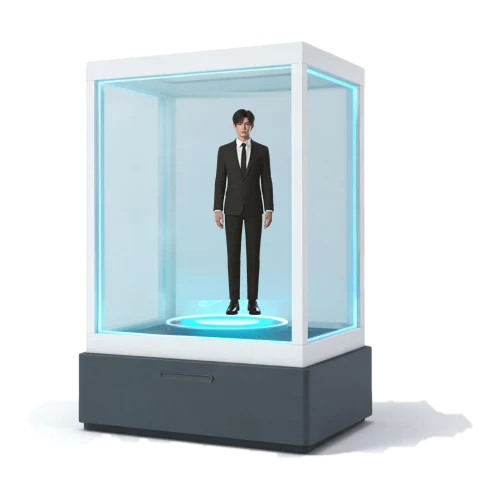
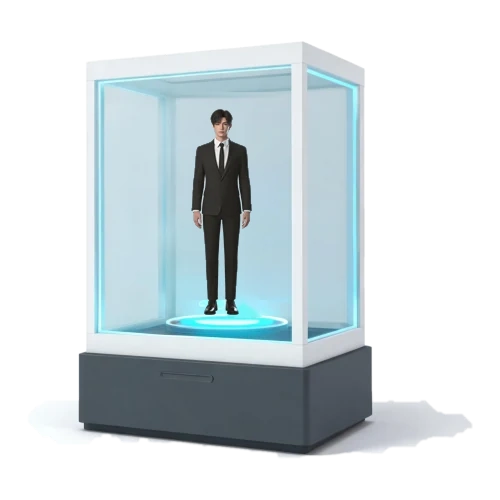
feat: 串联合作实景叙事并校正智柜数字人位置
保留悬浮目录并连续展开五条合作线，同时让西装数字人居于柜体视觉中央。

Changed region(s): [[0.36, 0.21, 0.57, 0.66]]

diff --git a/src/components/sections/CoopShowcase.jsx b/src/components/sections/CoopShowcase.jsx
@@ -2,18 +2,17 @@ import { useCallback, useEffect, useLayoutEffect, useRef, useState } from 'react
 import { createPortal } from 'react-dom'
 import { Users, BookOpenCheck, Microscope, GraduationCap, Award } from 'lucide-react'
 import { coopCategories } from '../../data/cooperation'
+import { scrollToId } from '../../hooks/useLenis'
 
 const ICONS = { conference: Users, textbook: BookOpenCheck, project: Microscope, training: GraduationCap, competition: Award }
 
-/* 合作实景 · 五个板块共用一套"暗场画廊"语言：
-   同一块深色台面、同一档发丝线与留白、同一套编号 + 字幕条、同一段 0.5s 缓动；
-   但每个板块换一种构图，避免五个模块长得一样 ——
-     01 学术会议：35mm 双卷胶片（收卷 / 放卷，片边齿孔与印字都在胶片本体上）
-     02 出版教材：书封一字排开的陈列台，脚下有倒影，没有假书架
-     03 产学研合作：疏密有致的拼贴墙，大图占位、小图补缝
-     04 师资培训：横向手风琴名册，选中一张展开成主画幅（原来的课堂复原推翻重做）
-     05 以赛促学：数据海报 + 获奖现场幻灯，先用数字说话
-   动效统一：画面切换走 coop-swap，悬停只做轻微位移/提亮，不做夸张缩放。 */
+/* 合作实景 · 左侧悬浮目录 + 右侧五章连续叙事。
+   目录只负责定位与滚动高亮，不再切换内容；每一章独立组织标题、文案、交付点与舞台：
+     01 学术会议：横向时间胶片，会场纪事沿年份流动
+     02 出版教材：左侧出版叙事，右侧可抽取的书封展台
+     03 产学研合作：拼贴现场与项目笔记左右对读
+     04 师资培训：深色成长路径，手风琴展开每次培训现场
+     05 以赛促学：数据海报与赛场幻灯收束到「学 — 练 — 赛 — 用」 */
 
 const CAPTION_BAR =
   'absolute inset-x-0 bottom-0 flex items-center gap-2.5 border-t border-white/10 bg-black/45 px-3 py-2 backdrop-blur-[6px]'
@@ -539,8 +538,8 @@ function TextbookStage({ items }) {
         {n} titles · co-authored
       </div>
 
-      {/* 飞行层：挂到 body 上。舞台外层有 coop-swap 动画（transform 会留下包含块），
-          留在原地会被当成该包含块内的 fixed，坐标与裁切都会错位 */}
+      {/* 飞行层挂到 body：外层入场动画与展台裁切都可能改变 fixed 的坐标包含块，
+          portal 可保证飞行副本始终使用真实视口坐标。 */}
       {flight &&
         typeof document !== 'undefined' &&
         createPortal(
@@ -567,7 +566,7 @@ function ProjectStage({ items }) {
 
   return (
     <div className="relative flex h-full min-h-[440px] flex-col overflow-hidden md:min-h-0">
-      <div className="grid min-h-0 flex-1 grid-cols-6 grid-rows-2 gap-1.5 p-3 pb-12 md:gap-2 md:p-4 md:pb-12">
+      <div className="grid min-h-0 flex-1 auto-rows-[92px] grid-cols-2 gap-1.5 p-3 pb-12 sm:auto-rows-[112px] md:auto-rows-fr md:grid-cols-6 md:grid-rows-2 md:gap-2 md:p-4 md:pb-12">
         {items.map((it, i) => {
           const big = i === 0
           const on = i === cur
@@ -858,29 +857,69 @@ function CompetitionStage({ items }) {
   )
 }
 
-const VIEWS = {
-  conference: FilmReel,
-  textbook: TextbookStage,
-  project: ProjectStage,
-  training: TrainingStage,
-  competition: CompetitionStage,
+/* 章节标题只统一编号、图标与字阶；标题、正文、交付点的组合方式由每章自己决定。 */
+function ChapterHeading({ cat, dark = false }) {
+  const Icon = ICONS[cat.id]
+  return (
+    <div>
+      <div className="flex flex-wrap items-center gap-x-3 gap-y-2">
+        <span className="font-mono text-caption tabular-nums tracking-[0.16em] text-brand">{cat.n}</span>
+        <span aria-hidden className={`h-px w-5 ${dark ? 'bg-white/25' : 'bg-ink-900/20'}`} />
+        <Icon className={`h-4 w-4 ${dark ? 'text-brand-300' : 'text-brand'}`} strokeWidth={1.7} />
+        <p className={`font-mono text-micro uppercase tracking-label ${dark ? 'text-white/40' : 'text-ink-400'}`}>{cat.en}</p>
+      </div>
+      <h3 id={`coop-title-${cat.id}`} className={`mt-3 text-[26px] font-bold tracking-tight md:text-[30px] ${dark ? 'text-white' : 'text-ink-900'}`}>
+        {cat.zh}
+      </h3>
+    </div>
+  )
 }
 
-/* 左侧竖直悬浮导航：sticky 跟随滚动，高亮当前板块；窄屏退化为横排胶囊。 */
+function StoryPoints({ points, dark = false, className = '' }) {
+  return (
+    <ol className={`grid gap-4 ${className}`}>
+      {points.map((point, i) => (
+        <li key={point} className={`flex items-start gap-3 border-t pt-3 ${dark ? 'border-white/12' : 'border-ink-900/10'}`}>
+          <span className={`mt-0.5 shrink-0 font-mono text-[10px] tabular-nums tracking-[0.14em] ${dark ? 'text-brand-300/80' : 'text-brand'}`}>
+            {pad(i)}
+          </span>
+          <p className={`min-w-0 text-ui leading-relaxed ${dark ? 'text-white/60' : 'text-ink-700'}`}>{point}</p>
+        </li>
+      ))}
+    </ol>
+  )
+}
+
+function StageFrame({ children, dark = false, className = '' }) {
+  return (
+    <div
+      className={`overflow-hidden rounded-2xl border bg-night-900 ${
+        dark ? 'border-white/10 shadow-[0_24px_60px_-36px_rgba(0,0,0,0.9)]' : 'border-ink-900/10 shadow-card'
+      } ${className}`}
+    >
+      {children}
+    </div>
+  )
+}
+
+/* 左侧悬浮目录保留原来的视觉，只把行为从切换面板改为滚动定位。 */
 function SideNav({ active, onSelect }) {
   return (
-    <nav className="sticky top-24 hidden self-start lg:block">
+    <nav aria-label="合作实景章节" className="sticky top-24 hidden self-start lg:block">
       <p className="mb-3 px-3 font-mono text-micro uppercase tracking-label text-ink-400">合作板块</p>
       <div className="flex flex-col gap-1">
         {coopCategories.map((c) => {
           const Icon = ICONS[c.id]
           const on = c.id === active
           return (
-            <button
+            <a
               key={c.id}
-              type="button"
-              onClick={() => onSelect(c.id)}
-              aria-current={on ? 'true' : undefined}
+              href={`#coop-${c.id}`}
+              onClick={(event) => {
+                event.preventDefault()
+                onSelect(c.id)
+              }}
+              aria-current={on ? 'location' : undefined}
               className={`group relative flex items-center gap-3 rounded-xl px-3.5 py-2.5 text-left text-ui transition-colors ${
                 on ? 'bg-white text-ink-900 shadow-card' : 'text-ink-500 hover:bg-white/70 hover:text-ink-900'
               }`}
@@ -890,7 +929,7 @@ function SideNav({ active, onSelect }) {
               <Icon className={`h-4 w-4 shrink-0 ${on ? 'text-brand' : 'text-ink-400'}`} strokeWidth={1.8} />
               <span className="min-w-0 truncate font-medium">{c.zh}</span>
               <span className={`ml-auto font-mono text-caption tabular-nums ${on ? 'text-ink-400' : 'text-ink-300'}`}>{c.items.length}</span>
-            </button>
+            </a>
           )
         })}
       </div>
@@ -900,66 +939,159 @@ function SideNav({ active, onSelect }) {
 
 export default function CoopShowcase() {
   const [active, setActive] = useState(coopCategories[0].id)
-  const cat = coopCategories.find((c) => c.id === active)
-  const View = VIEWS[cat.id]
+  const [conference, textbook, project, training, competition] = coopCategories
+
+  const goTo = useCallback((id) => {
+    setActive(id)
+    scrollToId(`coop-${id}`)
+  }, [])
+
+  /* 五章同时常驻，滚动经过哪一章就高亮哪一章。rAF 合并滚动事件，避免反复测量。 */
+  useEffect(() => {
+    let raf = 0
+    const sync = () => {
+      raf = 0
+      const marker = Math.min(180, window.innerHeight * 0.3)
+      let current = coopCategories[0].id
+      coopCategories.forEach((c) => {
+        const el = document.getElementById(`coop-${c.id}`)
+        if (el && el.getBoundingClientRect().top <= marker) current = c.id
+      })
+      setActive((prev) => (prev === current ? prev : current))
+    }
+    const onScroll = () => {
+      if (!raf) raf = requestAnimationFrame(sync)
+    }
+    sync()
+    window.addEventListener('scroll', onScroll, { passive: true })
+    window.addEventListener('resize', onScroll)
+    return () => {
+      cancelAnimationFrame(raf)
+      window.removeEventListener('scroll', onScroll)
+      window.removeEventListener('resize', onScroll)
+    }
+  }, [])
 
   return (
-    <section className="container-x pb-14 md:pb-20">
-      <div className="mb-6 flex flex-wrap items-end justify-between gap-4 md:mb-8">
+    <section className="container-x pb-20 pt-2 md:pb-28">
+      <div className="mb-8 flex flex-wrap items-end justify-between gap-4 md:mb-12">
         <div>
           <p className="font-mono text-micro uppercase tracking-label text-ink-400">COOPERATION IN PRACTICE</p>
           <h2 className="mt-2 text-2xl font-bold tracking-tight text-ink-900 md:text-[30px]">合作实景</h2>
         </div>
-        <p className="max-w-md text-ui leading-relaxed text-ink-500">左侧切换板块，每条合作线有自己的叙事版式。</p>
+        <p className="max-w-md text-ui leading-relaxed text-ink-500">五条合作线依次展开，左侧悬浮目录可随时定位。</p>
       </div>
 
       <div className="grid gap-8 lg:grid-cols-[220px_minmax(0,1fr)] lg:gap-10">
-        <SideNav active={active} onSelect={setActive} />
+        <SideNav active={active} onSelect={goTo} />
 
         <div className="min-w-0">
-          {/* 窄屏横排胶囊导航 */}
-          <div className="mb-4 flex gap-2 overflow-x-auto pb-1 lg:hidden">
+          {/* 窄屏保留同一套目录，横向滚动定位，不再切换面板。 */}
+          <div className="sticky top-16 z-20 -mx-2 mb-8 flex gap-2 overflow-x-auto border-b border-ink-900/[0.06] bg-white/95 px-2 py-3 backdrop-blur-md lg:hidden">
             {coopCategories.map((c) => {
               const Icon = ICONS[c.id]
               const on = c.id === active
               return (
-                <button
+                <a
                   key={c.id}
-                  type="button"
-                  onClick={() => setActive(c.id)}
+                  href={`#coop-${c.id}`}
+                  onClick={(event) => {
+                    event.preventDefault()
+                    goTo(c.id)
+                  }}
+                  aria-current={on ? 'location' : undefined}
                   className={`flex shrink-0 items-center gap-2 rounded-full px-4 py-2.5 text-ui transition-colors ${
                     on ? 'bg-ink-900 text-white shadow-card' : 'bg-ink-900/[0.04] text-ink-500 hover:bg-ink-900/[0.08] hover:text-ink-900'
                   }`}
                 >
                   <Icon className="h-4 w-4" strokeWidth={1.8} />
                   <span className="font-medium">{c.zh}</span>
-                </button>
+                </a>
               )
             })}
           </div>
 
-          <div className="overflow-hidden rounded-2xl border border-ink-900/10 bg-night-900 shadow-card">
-            <div className="flex items-center justify-between px-4 pt-3.5 md:px-5">
-              <p className="font-mono text-micro uppercase tracking-label text-white/40">{cat.n} · {cat.en}</p>
-              <p className="font-mono text-micro tabular-nums tracking-[0.16em] text-white/25">{String(cat.items.length).padStart(2, '0')} records</p>
-            </div>
-            <div key={cat.id} className="coop-swap p-2 md:p-3">
-              <div className={`h-[clamp(440px,46vw,516px)] ${cat.id === 'conference' ? 'md:h-[400px]' : ''}`}>
-                <View items={cat.items} />
+          <div className="space-y-16 md:space-y-24">
+            {/* 01 · 以时间为序：先看流动会场，再读会议如何回流教学。 */}
+            <article id="coop-conference" aria-labelledby="coop-title-conference" className="scroll-mt-24">
+              <div className="grid gap-5 border-t border-ink-900/10 pt-6 md:grid-cols-[minmax(0,0.8fr)_minmax(0,1.2fr)] md:gap-8">
+                <ChapterHeading cat={conference} />
+                <p className="text-ui-lg leading-[1.85] text-ink-500">{conference.lead}</p>
               </div>
-            </div>
-          </div>
+              <StageFrame className="mt-7 h-[390px] md:h-[420px]">
+                <FilmReel items={conference.items} />
+              </StageFrame>
+              <StoryPoints points={conference.points} className="mt-6 md:grid-cols-3 md:gap-5" />
+            </article>
 
-          <div key={`info-${cat.id}`} className="coop-swap mt-6 grid gap-6 md:mt-8 lg:grid-cols-[minmax(0,1.15fr)_minmax(0,1fr)] lg:gap-10">
-            <p className="text-ui-lg leading-[1.9] text-ink-500">{cat.lead}</p>
-            <ul className="space-y-2.5">
-              {cat.points.map((p) => (
-                <li key={p} className="flex items-start gap-3 text-ui leading-relaxed text-ink-700">
-                  <span className="mt-2 inline-block h-1.5 w-1.5 shrink-0 rounded-full bg-brand" />
-                  <span className="min-w-0">{p}</span>
-                </li>
-              ))}
-            </ul>
+            {/* 02 · 出版分章：文案是书脊旁的内容说明，展台承担抽书与换位。 */}
+            <article
+              id="coop-textbook"
+              aria-labelledby="coop-title-textbook"
+              className="scroll-mt-24 rounded-[28px] bg-mist-100 p-5 md:p-7 xl:p-8"
+            >
+              <div className="grid gap-8 xl:grid-cols-[220px_minmax(0,1fr)] xl:items-center xl:gap-9">
+                <div>
+                  <ChapterHeading cat={textbook} />
+                  <p className="mt-5 text-ui leading-[1.85] text-ink-500">{textbook.lead}</p>
+                  <StoryPoints points={textbook.points} className="mt-7" />
+                </div>
+                <StageFrame className="h-[520px]">
+                  <TextbookStage items={textbook.items} />
+                </StageFrame>
+              </div>
+            </article>
+
+            {/* 03 · 田野笔记：拼贴墙与项目说明左右对读，窄屏先叙事后看现场。 */}
+            <article
+              id="coop-project"
+              aria-labelledby="coop-title-project"
+              className="scroll-mt-24 border-y border-ink-900/10 py-8 md:py-10"
+            >
+              <div className="grid gap-8 xl:grid-cols-[minmax(0,1fr)_220px] xl:items-center xl:gap-9">
+                <div className="xl:order-2">
+                  <ChapterHeading cat={project} />
+                  <p className="mt-5 text-ui leading-[1.85] text-ink-500">{project.lead}</p>
+                  <StoryPoints points={project.points} className="mt-7" />
+                </div>
+                <StageFrame className="md:h-[520px] xl:order-1">
+                  <ProjectStage items={project.items} />
+                </StageFrame>
+              </div>
+            </article>
+
+            {/* 04 · 教师成长路径：整章压暗，三个交付点是课程路径，现场名册随后展开。 */}
+            <article
+              id="coop-training"
+              aria-labelledby="coop-title-training"
+              className="scroll-mt-24 rounded-[28px] bg-night-950 p-5 text-white md:p-7 xl:p-8"
+            >
+              <div className="grid gap-5 md:grid-cols-[minmax(0,0.8fr)_minmax(0,1.2fr)] md:gap-8">
+                <ChapterHeading cat={training} dark />
+                <p className="text-ui-lg leading-[1.85] text-white/55">{training.lead}</p>
+              </div>
+              <StoryPoints points={training.points} dark className="mt-8 md:grid-cols-3 md:gap-5" />
+              <StageFrame dark className="mt-8 h-[480px]">
+                <TrainingStage items={training.items} />
+              </StageFrame>
+            </article>
+
+            {/* 05 · 竞赛闭环：数据与现场先行，最后落到「学 — 练 — 赛 — 用」。 */}
+            <article id="coop-competition" aria-labelledby="coop-title-competition" className="scroll-mt-24">
+              <div className="grid gap-5 border-t border-ink-900/10 pt-6 md:grid-cols-[minmax(0,0.8fr)_minmax(0,1.2fr)] md:gap-8">
+                <ChapterHeading cat={competition} />
+                <p className="text-ui-lg leading-[1.85] text-ink-500">{competition.lead}</p>
+              </div>
+              <StageFrame className="mt-7 h-[520px] md:h-[540px]">
+                <CompetitionStage items={competition.items} />
+              </StageFrame>
+              <div className="mt-7 grid gap-6 border-b border-ink-900/10 pb-8 xl:grid-cols-[minmax(0,0.65fr)_minmax(0,1.35fr)] xl:items-start">
+                <p className="whitespace-nowrap text-[clamp(24px,3vw,34px)] font-semibold tracking-[0.08em] text-ink-900">
+                  学 <span className="text-brand">—</span> 练 <span className="text-brand">—</span> 赛 <span className="text-brand">—</span> 用
+                </p>
+                <StoryPoints points={competition.points} className="md:grid-cols-3 md:gap-5" />
+              </div>
+            </article>
           </div>
         </div>
       </div>

diff --git a/src/pages/SchoolEnterprise.jsx b/src/pages/SchoolEnterprise.jsx
@@ -5,9 +5,9 @@ import CoopShowcase from '../components/sections/CoopShowcase'
 /* ============================================================
  * 校企合作页
  * ------------------------------------------------------------
- * 进页即内容：标题 → 新闻资讯 → 合作实景。合作板块不再纵向堆叠五个
- * 图文段，改为 CoopShowcase 的板块切换式实景画廊（照片拼贴 / 教材书架
- * + 灯箱），素材与文案集中在 src/data/cooperation.js。
+ * 进页即内容：标题 → 新闻资讯 → 合作实景。合作实景保留左侧悬浮目录，
+ * 右侧连续展开五条合作线，各自使用独立的叙事版式与实景舞台；
+ * 素材与文案集中在 src/data/cooperation.js。
  * ============================================================ */
 
 export default function SchoolEnterprise() {

diff --git a/src/data/cooperation.js b/src/data/cooperation.js
@@ -1,5 +1,5 @@
 /* 校企合作 · 合作实景素材库：图片均来自公司真实活动存档（public/images/coop/）。
-   每个板块的展陈方式由 CoopShowcase 的 VIEWS 按 id 映射（年份轴/书封陈列/拼贴墙/手风琴/数据海报）。 */
+   CoopShowcase 将五条合作线连续展开，并分别使用胶片、书封、拼贴、手风琴与数据海报叙事。 */
 
 export const coopCategories = [
   {
